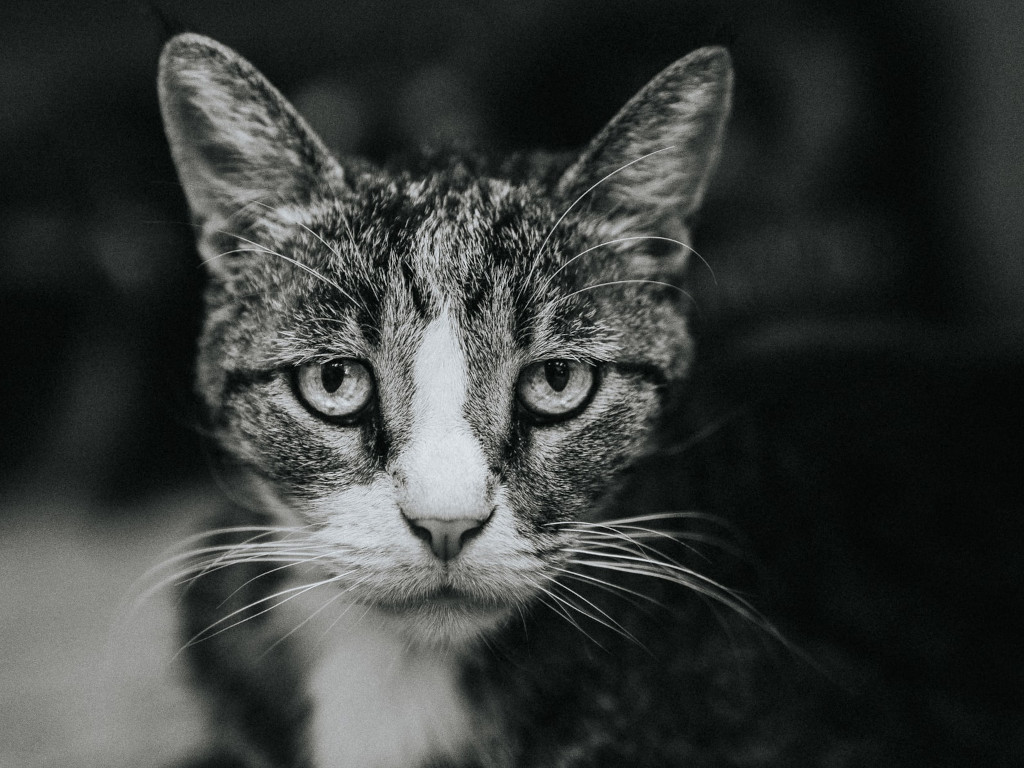
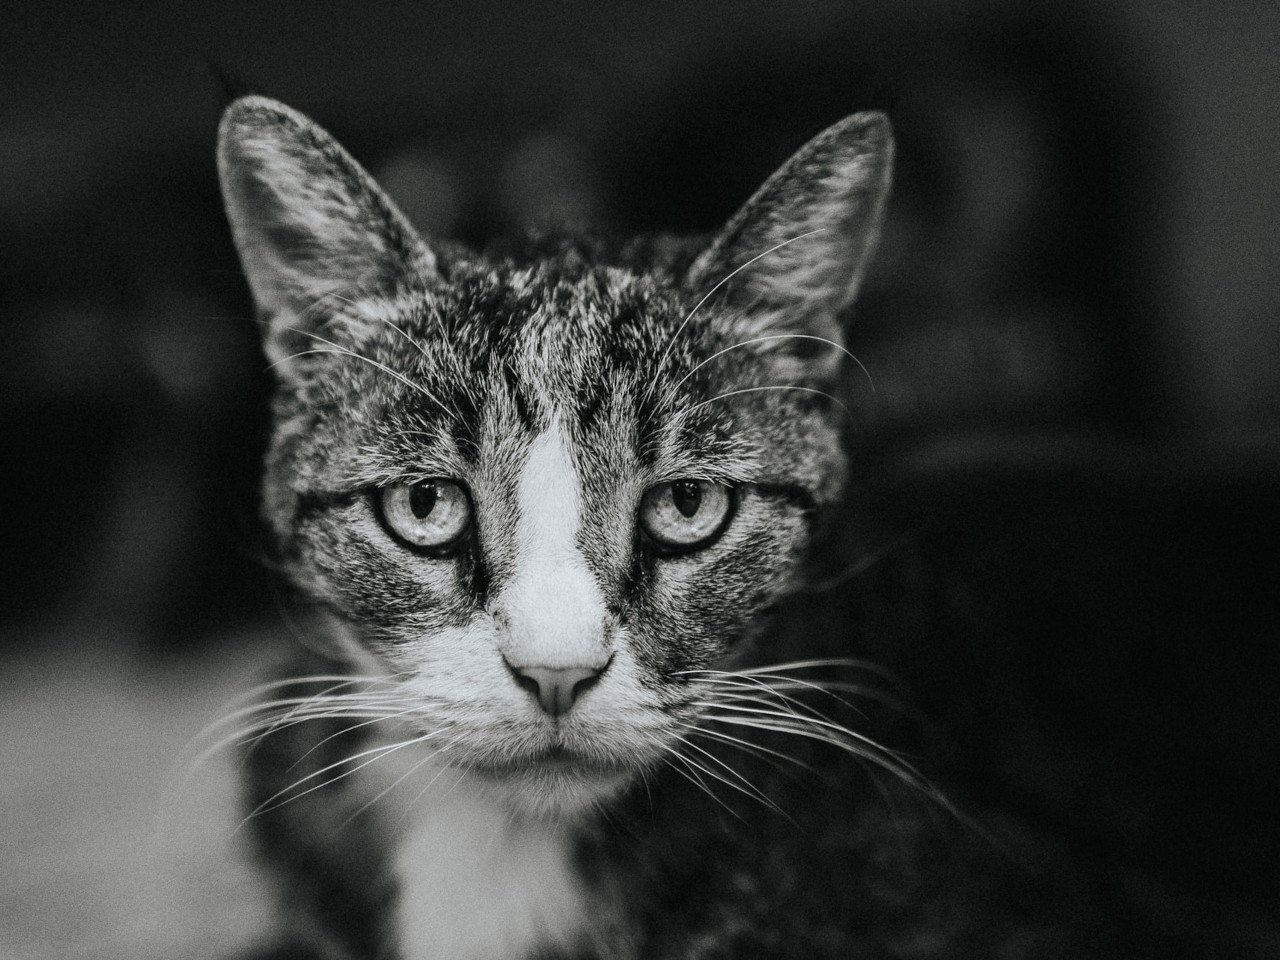
Increased size of carousel to 1280x960.

diff --git a/index.html b/index.html
@@ -198,12 +198,12 @@
           class="slideshow__img slideshow__img--1 slideshow__img--current"
         />
         <img
-          src="images/carousel/adopt-support-volunteer.jpg"
+          src="images/carousel/adopt-support-volunteer-2.jpg"
           alt="Man facing away, volunteering and holding dog"
           class="slideshow__img slideshow__img--2"
         />
         <img
-          src="images/carousel/home-sweet-home.jpg"
+          src="images/carousel/home-sweet-home-2.jpg"
           alt="Puppy cradled in woman's lap"
           class="slideshow__img slideshow__img--3"
         />
